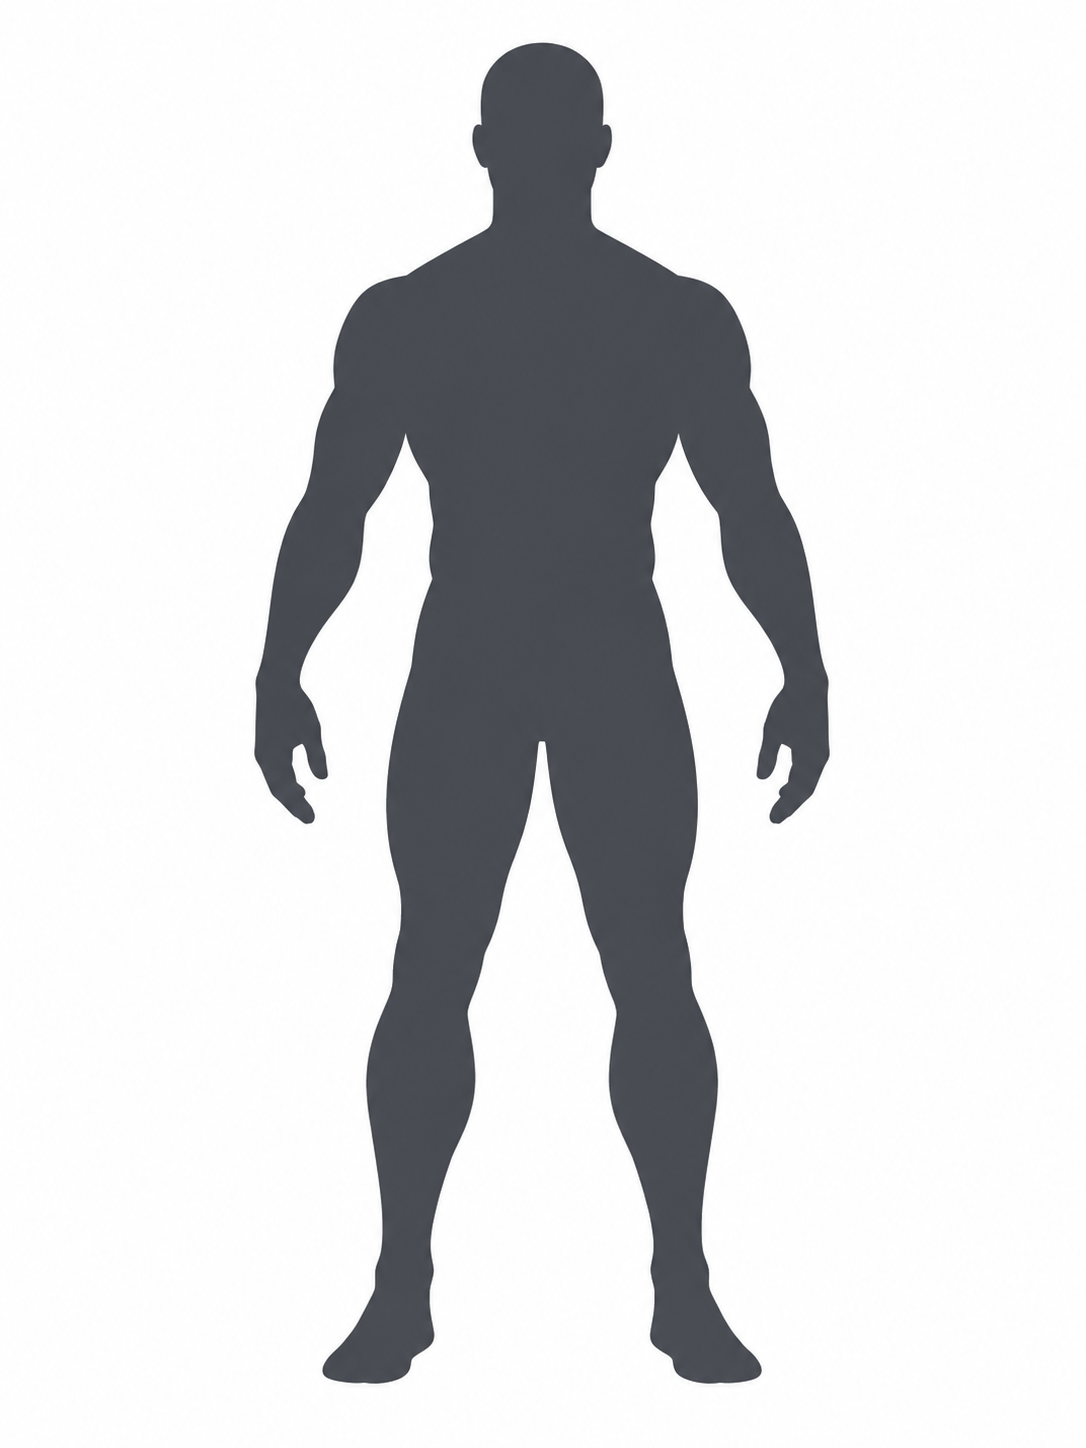
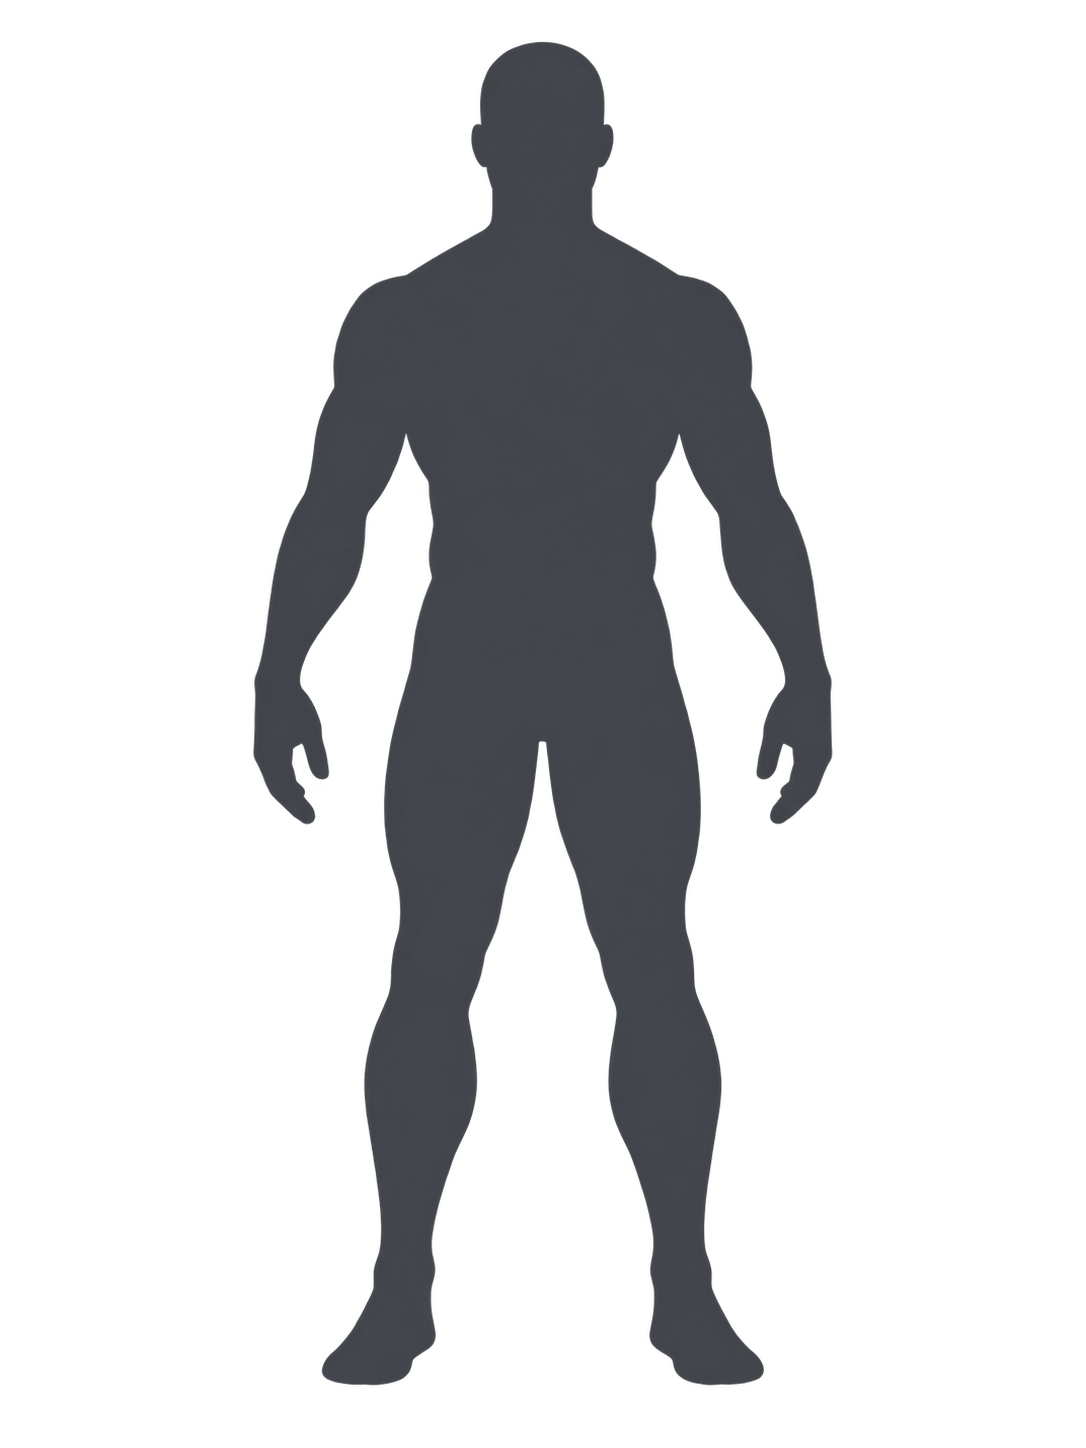
Use weapon and slotless artwork and transparent equipment silhouette

diff --git a/app/ui/equipment_figure.py b/app/ui/equipment_figure.py
@@ -35,6 +35,16 @@ _slot_icons = {}
 
 def slot_icon(slot, color):
     key = "Ring" if slot.startswith("Ring") else slot
+    if slot == WIELDED_SLOT or slot.casefold() == "slotless":
+        if key not in _slot_icons:
+            filename, rect = (("weapon.png", (143, 135, 968, 869)) if slot == WIELDED_SLOT
+                              else ("slotless.png", (166, 129, 923, 862)))
+            source = QPixmap(str(ASSET_DIRECTORY / filename))
+            scale_x, scale_y = source.width() / 1254, source.height() / 1254
+            x, y, width, height = rect
+            _slot_icons[key] = QIcon(source.copy(round(x*scale_x), round(y*scale_y),
+                                               round(width*scale_x), round(height*scale_y)))
+        return _slot_icons[key]
     if key in SLOT_ICON_RECTS:
         if key not in _slot_icons:
             atlas = QPixmap(str(ASSET_DIRECTORY / "slots.png"))

diff --git a/tests/test_equipment_figure.py b/tests/test_equipment_figure.py
@@ -107,6 +107,11 @@ class EquipmentFigureTests(unittest.TestCase):
         try:
             figure = dialog.figure
             self.assertFalse(figure.silhouette.isNull())
+            image = figure.silhouette.toImage()
+            self.assertTrue(image.hasAlphaChannel())
+            self.assertEqual(image.pixelColor(0, 0).alpha(), 0)
+            for slot in ('Wielded weapons', 'Slotless'):
+                self.assertFalse(slot_icon(slot, '#ffffff').isNull())
             for slot in SLOT_ICON_RECTS:
                 self.assertFalse(slot_icon(slot, '#ffffff').isNull(), slot)
             for width, height in ((400, 580), (800, 580), (400, 900)):
